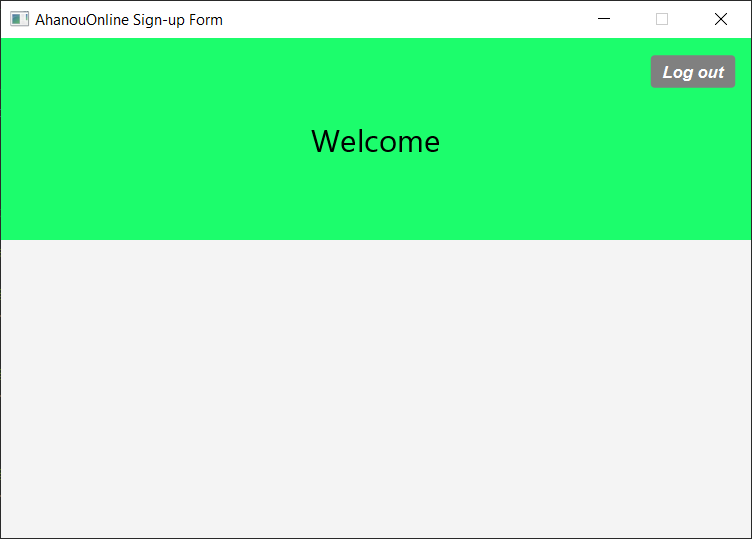
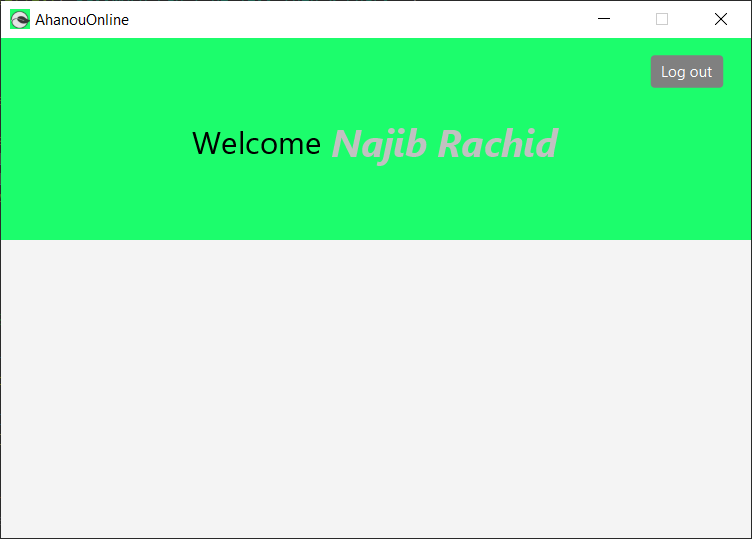
fix comunication between controlers brief7

diff --git a/brief7-desktop-application/src/application/SignupController.java b/brief7-desktop-application/src/application/SignupController.java
@@ -139,14 +139,14 @@ public class SignupController  implements Initializable {
             dashboardController.transferMessage(fnameField.getText()+ " " + lnameField.getText());
  
             
-            Main m = new Main();
-            m.changeScene("Dashboard.fxml");
+//            Main m = new Main();
+//            m.changeScene("Dashboard.fxml");
 
-//            Stage stage = new Stage();
-//            stage.setScene(new Scene(root));
-//            stage.setTitle("Second Window");
-//            stage.show();
-//            
+         //   Stage stage = new Stage();
+            Main.stg.setScene(new Scene(root));
+            Main.stg.setTitle("AhanouOnline");
+            Main.stg.show();
+            
 
         } catch (IOException ex) {
             System.err.println(ex);

diff --git a/brief7-desktop-application/src/application/Main.java b/brief7-desktop-application/src/application/Main.java
@@ -13,7 +13,7 @@ import javafx.fxml.FXMLLoader;
 
 public class Main extends Application {
 	
-    private static Stage stg;
+    public static Stage stg;
 
     @Override
 	public void start(Stage primaryStage) {
